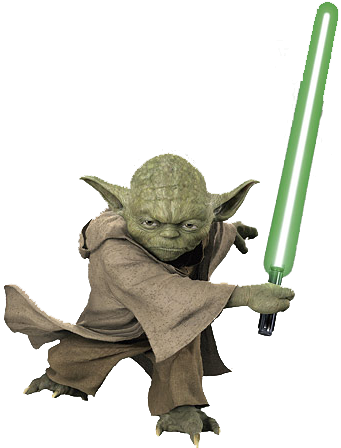
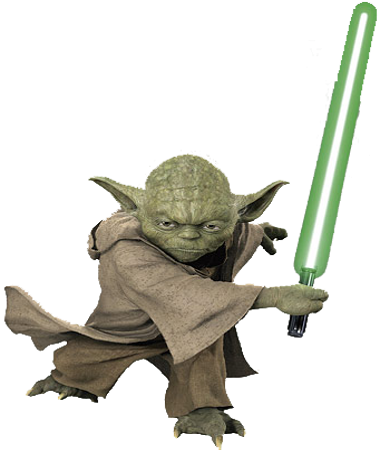
done

diff --git a/index.html b/index.html
@@ -32,25 +32,25 @@
           <li><button id="new-game"><h1>New Game</h1></button></li>
           <li><button id="instructions"><h1>Instructions</h1></button></li>
           <li><button id="mute"><h1>Mute Audio</h1><button></li>
-      <li><button id="about"><h1>About</h1></button></li>
+          <li><button id="about"><h1>About</h1></button></li>
         </ul>
       </div>
       <div class="col-xs-9">
         <canvas id="myCanvas" width="1200px" height="800px"> </canvas>
         <div id="disclaimer">
           <!-- <img src="img/starwarsmain.jpeg"> -->
-          <video id="intro" width="1350px" height="600px">
+          <video id="intro">
   <source src="intro.mp4" type="video/mp4">
 Your browser does not support the video tag.
 </video>
         </div>
         <div class="jumbotron pick-side">
-          <h1>Pick your side padawan</h1>
-          <div id="dark-side">
-            <button id="sith-selected"><img width="380px" height="450px" src="img/darthveider.png"></button>
-          </div>
+          <h1>Cho0se your ally padawan</h1>
           <div id="bright-side">
-            <button id="rebellion-selected"><img width="380px" height="450px" src="img/master_yoda2.png"></button>
+            <button id="rebellion-selected"><img src="img/master_yoda2.png"></button>
+          </div>
+          <div id="dark-side">
+            <button id="sith-selected"><img src="img/darthveider.png"></button>
           </div>
         </div>
         <div class="instructions">
@@ -63,8 +63,12 @@ Your browser does not support the video tag.
           </ul>
         </div>
         <div class="about">
-          <img src="img/ironhacklogo.png">
-          <h1>Developed at Ironhack by Ihor Bodnarchuk<br>May the force be with you</h1>
+          <a href="https://www.ironhack.com/en"><img src="img/ironhacklogo.png"></a>
+          <h1>Developed in 5 days by Ihor Bodnarchuk</h1>
+          <section id="links">
+          <a href="https://github.com/ihorbond"><img src="img/linkedin.png"></a>
+          <a href="https://www.linkedin.com/in/ibodnarchuk/"><img src="img/github.png"></a>
+        </section>
         </div>
         <div class="jumbotron game-over">
           <h1> Game Over! </h1>
@@ -76,7 +80,6 @@ Your browser does not support the video tag.
   <script src="https://code.jquery.com/jquery-3.2.1.js" integrity="sha256-DZAnKJ/6XZ9si04Hgrsxu/8s717jcIzLy3oi35EouyE=" crossorigin="anonymous"></script>
   <script type="text/javascript" src="js/controller.js"></script>
   <script type="text/javascript" src="js/view.js"></script>
-  <script type="text/javascript" src="js/model.js"></script>
 </body>
 
 </html>

diff --git a/css/style.min.css b/css/style.min.css
@@ -1,1 +1,1 @@
-@font-face{font-family:"STARWARS";src:url("../fonts/Rebellion.woff") format("woff");font-weight:normal;font-style:normal}body{background-color:black}#myCanvas{border:1px solid red}button{background:transparent;border:none}button:hover h1{color:red}h1{color:white;font-family:"STARWARS";padding:0;margin:0}#time{margin-left:90px}#menu>li{padding-top:20px;list-style-type:none}.about,.instructions{box-shadow:5px 5px 5px red;height:600px}.about #nine,.about #shield,.instructions #nine,.instructions #shield{color:blue}.about li,.instructions li{padding:2px}.about img,.instructions img{width:600px;height:320px}.about{padding-top:100px;text-align:center}.about img{width:200px;height:200px}.about h1{text-shadow:2px 2px #13b9ed}.jumbotron{color:white;background:black;box-shadow:5px 5px 5px red;height:600px}#bright-side{opacity:0.5;float:left}#dark-side{opacity:0.5;float:right}#bright-side:hover,#dark-side:hover{opacity:1}#bright-side:hover img,#dark-side:hover img{width:400px;height:480px}
+@font-face{font-family:"STARWARS";src:url("../fonts/Rebellion.woff") format("woff");font-weight:normal;font-style:normal}body{background-color:black}#intro{width:90%;height:90%}#myCanvas{border:2px solid red}button{background:transparent;border:none}button:hover h1{color:red}h1{color:white;font-family:"STARWARS";padding:0;margin:0}#time{margin-left:2em}#menu>li{padding-top:20px;list-style-type:none}.about,.instructions{box-shadow:5px 5px 5px red}.about #nine,.about #shield,.instructions #nine,.instructions #shield{color:blue}.about li,.instructions li{padding:2px}.about img,.instructions img{width:80%;height:70%;padding:1em}#links img{width:75px;height:75px}.about{text-align:center}.about img{width:25%;height:25%}.about h1{text-shadow:2px 2px #13b9ed}.jumbotron{color:white;background:black;box-shadow:5px 5px 5px red}#bright-side,#dark-side{display:inline;opacity:0.5}#bright-side img,#dark-side img{width:100%;height:100%}#bright-side{padding-right:20em}#bright-side:hover,#dark-side:hover{opacity:1}@media (min-width: 1644px){body{font-size:10px}}

diff --git a/js/view.js b/js/view.js
@@ -17,17 +17,18 @@ function gameOver() {
   cancelAnimationFrame(animation);
   $('.game-over').show();
   $('#myCanvas').hide();
+  $('.header').hide();
   $('.pick-side').hide();
   $('.instructions').hide();
   $('.about').hide();
   $('#disclaimer').hide();
   $('#final-score').html(score);
-  if (playerSide === 'rebellion' && shieldHealth > 0 || playerSide === 'sith' && shieldHealth < 0) {
-    $('.game-over').append('<h1 style=\"color:red\">Empire won this battle!</h1>');
-    $('.game-over').append('<img height=\"300px\" src=\"./img/empire_win.gif\">');
-  } else {
+  if (playerSide === 'rebellion' && shieldHealth >= 0 || playerSide === 'sith' && shieldHealth < 0) {
     $('.game-over').append('<h1 style=\"color:green\">Alliance won this battle!</h1>');
     $('.game-over').append('<img height=\"300px\" src=\"./img/rebellion_win.gif\">');
+  } else {
+    $('.game-over').append('<h1 style=\"color:red\">Empire won this battle!</h1>');
+    $('.game-over').append('<img height=\"300px\" src=\"./img/empire_win.gif\">');
   }
 }
 
@@ -40,7 +41,8 @@ function launch() {
   $('about').hide();
   mainTheme.play();
   fillShipsArrayAndBaseSetup();
-  animation = requestAnimationFrame(draw); //starts drawing
+  draw();
+  // animation = requestAnimationFrame(draw); //starts drawing
 }
 document.getElementById('new-game').onclick = function() {
   if (!isGameOn) {
@@ -91,6 +93,8 @@ document.getElementById('instructions').onclick = function() {
   $('#myCanvas').hide();
   $('.about').hide();
   $('.game-over').hide();
+  intro.pause();
+  cancelAnimationFrame(animation);
 };
 document.getElementById('about').onclick = function() {
   $('.about').show();
@@ -100,5 +104,7 @@ document.getElementById('about').onclick = function() {
   $('.header').hide();
   $('#myCanvas').hide();
   $('.game-over').hide();
+  intro.pause();
+  cancelAnimationFrame(animation);
 };
 // });

diff --git a/css/style.scss b/css/style.scss
@@ -8,9 +8,13 @@
 body {
   background-color: black;
 }
+#intro {
+  width:90%;
+  height:90%;
+}
 
 #myCanvas {
-  border: 1px solid red;
+  border: 2px solid red;
 }
 
 button {
@@ -32,7 +36,7 @@ h1 {
 }
 
 #time {
-  margin-left: 90px;
+  margin-left: 2em;
 }
 
 #menu > li {
@@ -43,7 +47,6 @@ h1 {
 .about,
 .instructions {
   box-shadow: 5px 5px 5px red;
-  height: 600px;
 
   #nine,
   #shield {
@@ -55,18 +58,23 @@ h1 {
   }
 
   img {
-    width: 600px;
-    height: 320px;
+    width: 80%;
+    height: 70%;
+    padding: 1em;
   }
 }
 
+#links img{
+  width: 75px;
+  height: 75px;
+}
+
 .about {
-  padding-top: 100px;
   text-align: center;
 
   img {
-    width: 200px;
-    height: 200px;
+    width: 25%;
+    height: 25%;
   }
 
   h1 {
@@ -74,28 +82,32 @@ h1 {
   }
 }
 
+
 .jumbotron {
   color: white;
   background: black;
   box-shadow: 5px 5px 5px red;
-  height: 600px;
 }
 
-#bright-side {
-  opacity: 0.5;
-  float: left;
-}
-
+#bright-side,
 #dark-side {
+  display: inline;
   opacity: 0.5;
-  float: right;
+  img {
+   width: 100%;
+   height: 100%;
+  }
+}
+#bright-side{
+    padding-right: 20em;
 }
 
 #bright-side:hover,
 #dark-side:hover {
-  img {
-    width: 400px;
-    height: 480px;
+    opacity: 1;
+}
+@media (min-width: 1644px) {
+  body {
+    font-size: 10px;
   }
-  opacity: 1;
 }

diff --git a/js/controller.js b/js/controller.js
@@ -61,11 +61,11 @@ function fillShipsArrayAndBaseSetup() {
   var intervalId = setInterval(function() {
     if (i < ships.length) {
       if (playerSide === 'rebellion') {
-        planet.src = '../starwars/img/death_star.png';
-        ships[i] = new ShipBuilder(rebellionShip);
-      } else {
         planet.src = '../starwars/img/rebellion_base.png';
         ships[i] = new ShipBuilder(sithShip);
+      } else {
+        planet.src = '../starwars/img/death_star.png';
+        ships[i] = new ShipBuilder(rebellionShip);
       }
       i++;
     } else {
@@ -134,6 +134,7 @@ function draw(timer) {
   }
   //implementing countdown timer
   var countdown = -(Math.floor(timer / 1000) - 62); //62 not 60 because of a 2 sec delay in fillArray function
+  console.log(timer);
   document.getElementById('timer').innerHTML = countdown;
   if (countdown === 0 || ships.length === 0 || shieldHealth < 0) {
     gameOver(); //this function is described in view.js file
